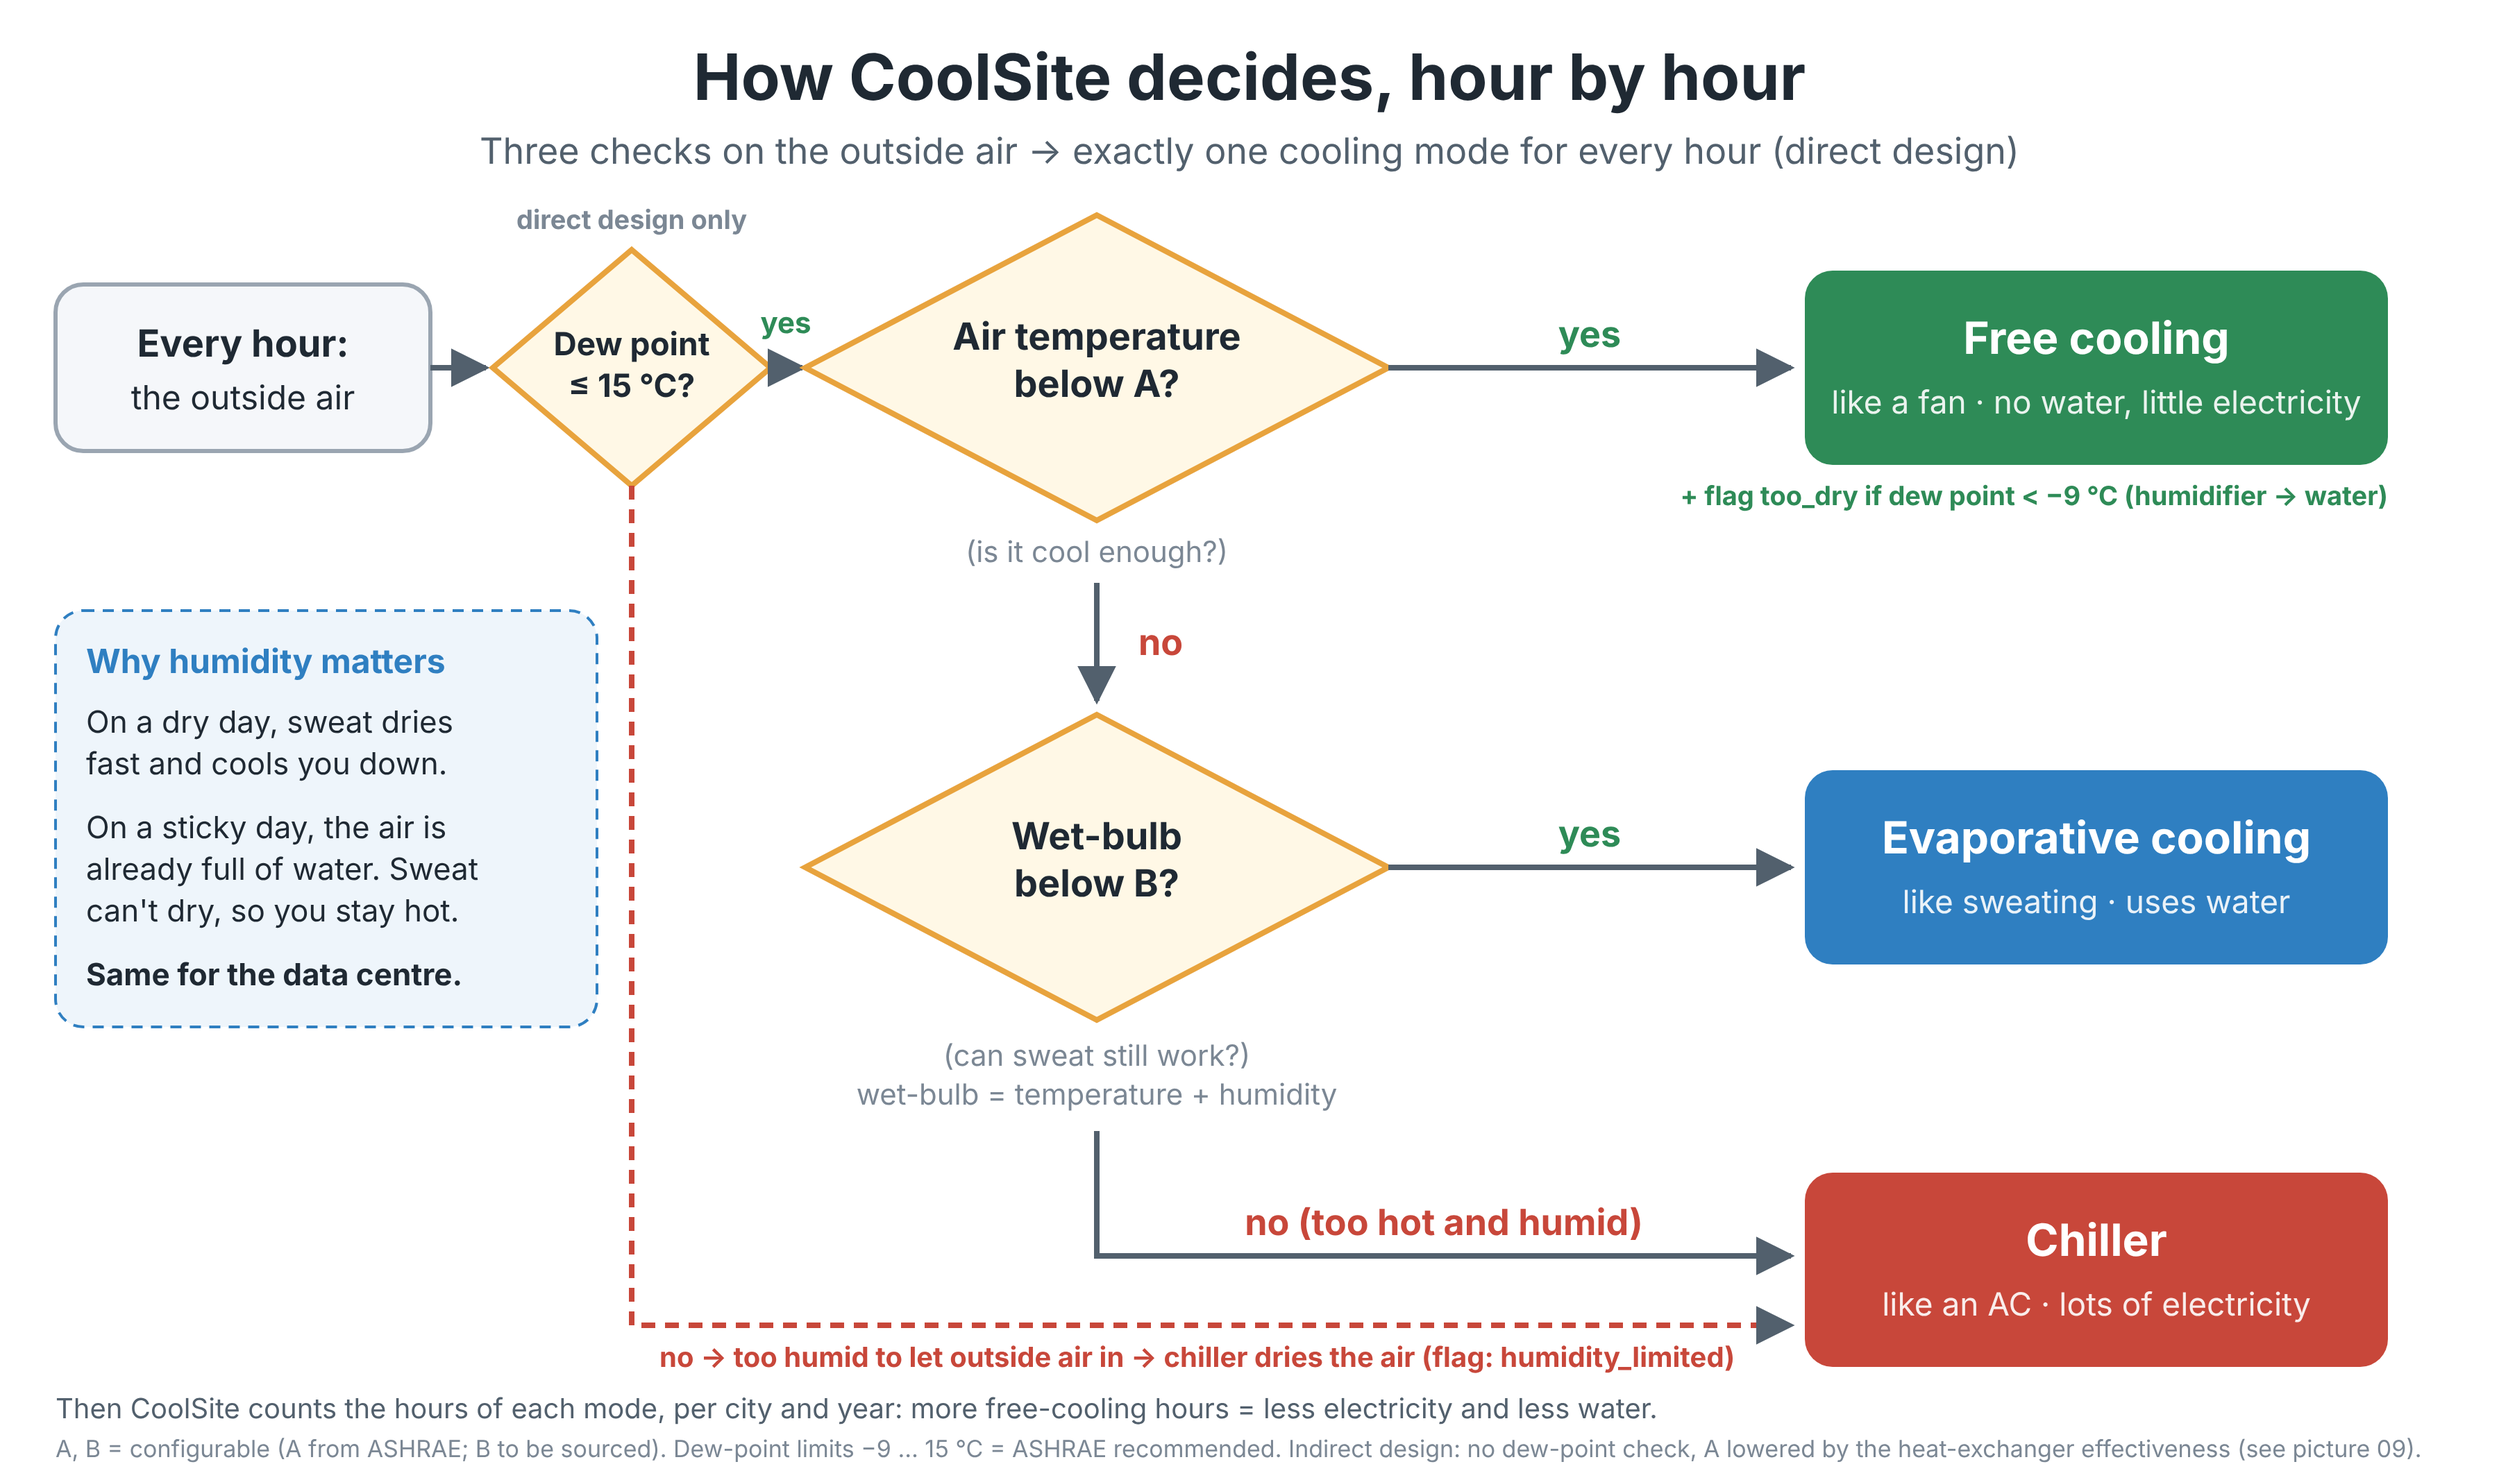
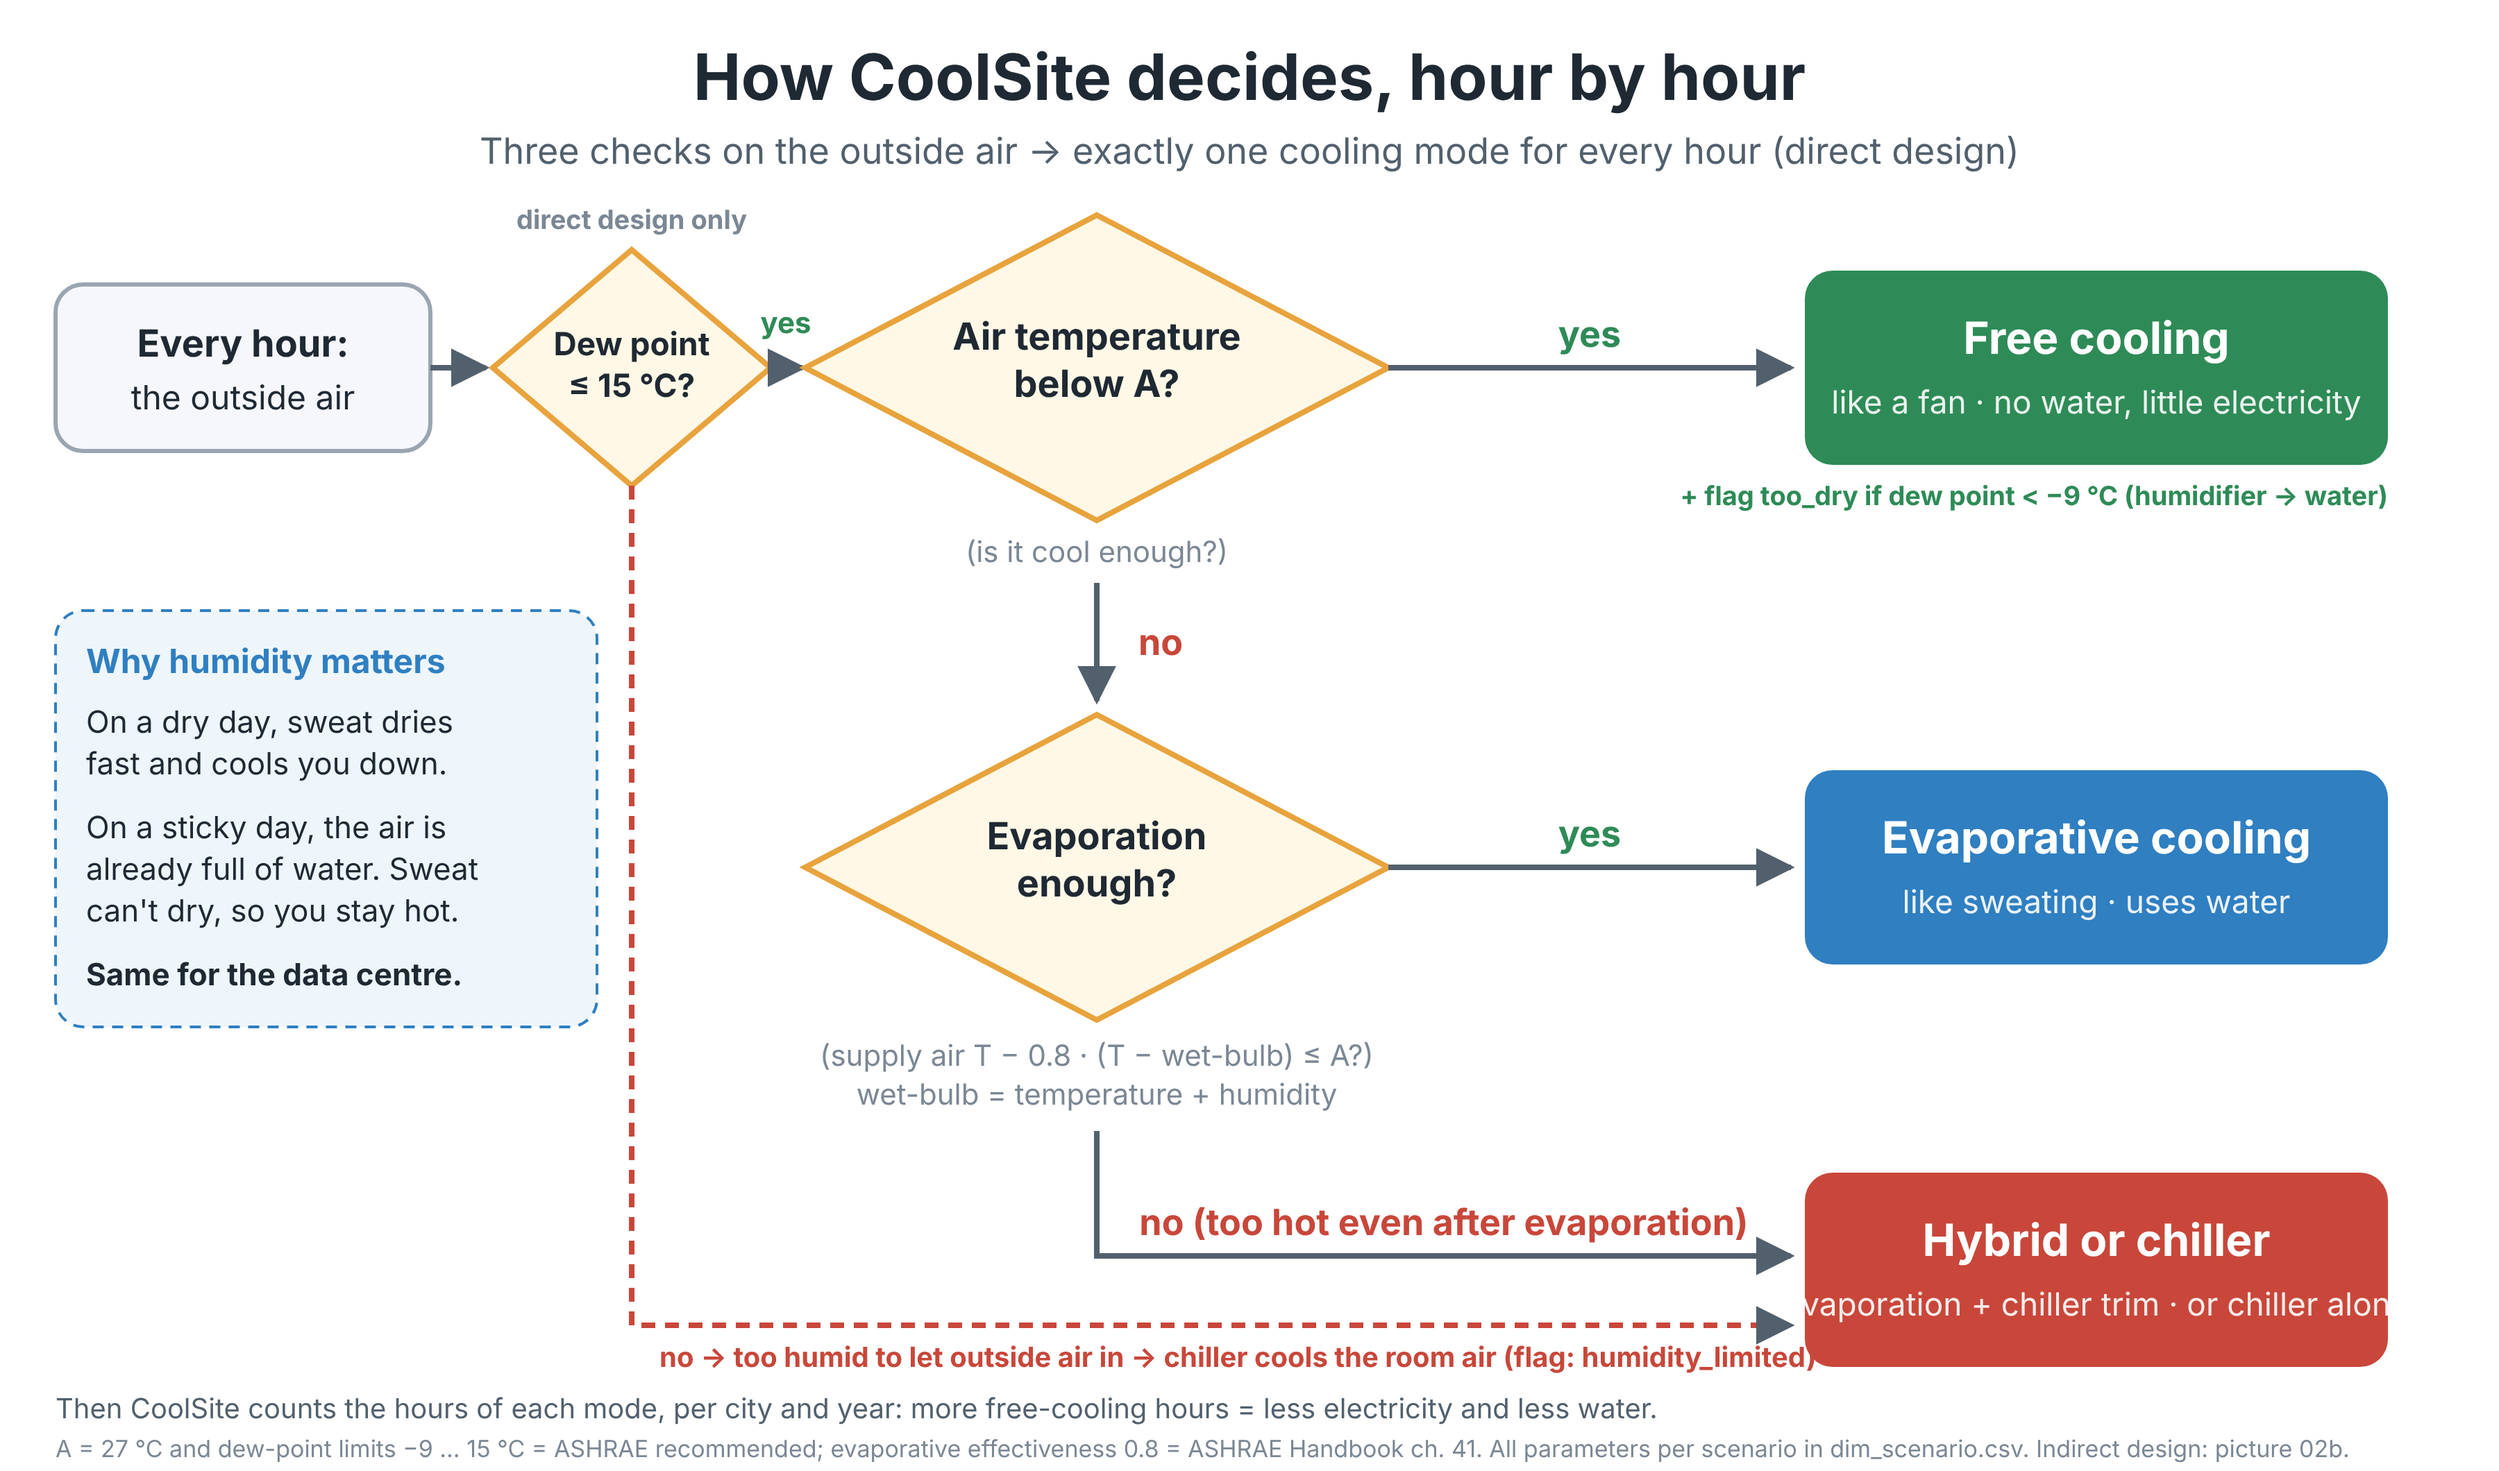
Docs: architecture, data catalog

diff --git a/docs/capstone_idea.md b/docs/capstone_idea.md
@@ -27,7 +27,7 @@ Regulation puts numbers on this: Germany's Energy Efficiency Act (EnEfG) caps PU
 
 Saving water matters most where water is scarce. CoolSite therefore adds each city's **water stress** (WRI Aqueduct 4.0): the same evaporative hours weigh more in Madrid than in Oslo.
 
-**User:** a company deciding where to build a new data centre (site-selection team).
+**User:** a site-selection team deciding where to build a new data centre. Example persona used throughout: **Lena**, site-selection lead at a cloud provider, needs 50 MW of new capacity – and Frankfurt is full.
 
 **Output**
 - Gold layer as a **star schema**: hours, water degree-hours and chiller degree-hours per city × year × scenario × mode, plus data coverage per city × year; dimensions for city (incl. water stress), year, scenario and mode → [data_model.md](data_model.md).
@@ -65,22 +65,17 @@ Storyline: **power → AI flexibility → regulation → cooling**. CoolSite mea
 
 <img src="figures/01_cooling_modes.png" alt="Three ways to cool a data centre" width="800">
 
-**Thresholds come from ASHRAE — and everything is a parameter**
+Three ways to remove the heat: **cold air → free cooling** (like a fan: no water, little electricity); **warm but dry air → evaporative cooling** (like sweating: uses water); **hot or humid air → chiller** (like an air conditioner: lots of electricity). The weather of every hour decides which one is possible.
 
-**ASHRAE** (American Society of Heating, Refrigerating and Air-Conditioning Engineers) publishes, through its committee TC 9.9, the reference guidelines for the air entering servers. They are recommendations, not law, but the de-facto design reference — also in Europe.
-
-- CoolSite's starting values = ASHRAE **recommended** range: inlet air 18–27 °C, dew point −9 … 15 °C.
-- Evaporative cooling is judged by the supply air it can deliver: **T − ε_evap · (T − wet-bulb)** must reach A (ε_evap = 0.8, ASHRAE Handbook ch. 41). Indirect-design parameters: heat-exchanger effectiveness 0.7, return air 37 °C (sources in [data_model.md](data_model.md)).
-- **Every threshold lives in a scenario table** (`data/seed/dim_scenario.csv`), nothing is hard-coded → a new assumption is a new row, and gold is recomputed from silver without re-downloading.
+*Lena's first question: in how many hours a year would the fan be enough?*
 
 ## 5. Two designs: direct and indirect
 
-How CoolSite classifies each hour depends on how the data centre uses the outside air:
+*Lena also has to choose a design: let the outside air in, or keep it out?* How CoolSite classifies each hour depends on that choice:
 
 - **Direct** (MVP) — outside air goes into the server room → its humidity matters → dew-point check first.
 - **Indirect** (scenario) — a heat exchanger keeps outside air out → no humidity limit, but the exchanger passes only a share ε of the cooling → stricter thresholds.
 
-Each design runs **with and without a hybrid mode** (evaporative pre-cooling + chiller trim) → **4 scenarios**. Per hour CoolSite also records **degree-hours** (K·h): how far the outside air is above the threshold, split into the part done with water and the part done by the chiller – a proxy for water and electricity demand, not litres or kWh.
 
 **Direct design (MVP)**
 
@@ -108,14 +103,26 @@ Evaporative cooling can only bring air down **towards the wet-bulb temperature**
 
 <img src="figures/04_same_temperature_different_answer.png" alt="Same 30 °C, different answer" width="800">
 
-## 7. Water stress: a second, different data source
+## 7. Thresholds and scenarios
+
+**ASHRAE** (American Society of Heating, Refrigerating and Air-Conditioning Engineers) publishes, through its committee TC 9.9, the reference guidelines for the air entering servers. They are recommendations, not law, but the de-facto design reference — also in Europe.
+
+- CoolSite's starting values = ASHRAE **recommended** range: inlet air 18–27 °C, dew point −9 … 15 °C.
+- Evaporative cooling is judged by the supply air it can deliver: **T − ε_evap · (T − wet-bulb)** must reach A (ε_evap = 0.8, ASHRAE Handbook ch. 41). Indirect-design parameters: heat-exchanger effectiveness 0.7, return air 37 °C (sources in [data_model.md](data_model.md)).
+- **Every threshold lives in a scenario table** (`data/seed/dim_scenario.csv`), nothing is hard-coded → a new assumption is a new row, and gold is recomputed from silver without re-downloading.
+
+Each design runs **with and without a hybrid mode** (evaporative pre-cooling + chiller trim) → **4 scenarios**. Per hour CoolSite also records **degree-hours** (K·h): how far the outside air is above the threshold, split into the part done with water and the part done by the chiller – a proxy for water and electricity demand, not litres or kWh.
+
+*For Lena this means: she compares scenarios side by side – for example, what keeping the hybrid mode off costs in chiller degree-hours – and every number names the assumptions behind it.*
+
+## 8. Water stress: a second, different data source
 
 - **What:** baseline water stress per river basin from WRI Aqueduct 4.0, annual and monthly, on a 0–5 scale.
 - **How:** static reference data, loaded once. Each city point is joined to the river basin it lies in (spatial join) and the result is stored in `dim_city`. A deliberate contrast to the daily weather time series.
-- **Why it matters in practice:** operators assess water risk at site selection. Equinix committed in 2023 to avoid evaporative cooling in areas with high water stress; Google chose air cooling for its Mesa (Arizona) site because the local water source was at high risk of depletion.
+- **Why it matters for Lena:** the same evaporative hours weigh more in Madrid than in Oslo. Operators assess water risk at site selection. Equinix committed in 2023 to avoid evaporative cooling in areas with high water stress; Google chose air cooling for its Mesa (Arizona) site because the local water source was at high risk of depletion.
 - **Limit:** a screening indicator at river-basin scale, not a local water-utility assessment.
 
-## 8. Pipeline and technology
+## 9. Pipeline and technology
 
 ```mermaid
 flowchart TB
@@ -154,7 +161,7 @@ flowchart TB
 - Portability rules: logic separate from I/O, all paths and thresholds in config, secrets only in environment variables, Git from the start.
 - **Tests (pytest):** classification incl. degree-hours, wet-bulb, validation rules, incremental windows, retry, upsert, coverage, mode counts; a failure demo shows recovery after a run with missing recent data.
 
-## 9. First results (23 cities, 1961–2026)
+## 10. First results (23 cities, 1961–2026)
 
 Share of hours per cooling mode, direct design:
 
@@ -176,7 +183,7 @@ Share of hours per cooling mode, direct design:
 - **Water stress:** 14 of 23 cities never reach "extremely high" water stress in any month; Madrid and Barcelona do in 10 months of the year.
 - **Data checks on gold:** no duplicate keys; per city × year × scenario, the hours of all modes add up exactly to the hours in silver; only the current year (2026) is flagged incomplete.
 
-## 10. Status, risks and scope
+## 11. Status, risks and scope
 
 **Decided**
 - Core: hourly cooling-mode classification (free / evaporative / hybrid / chiller) with degree-hours
